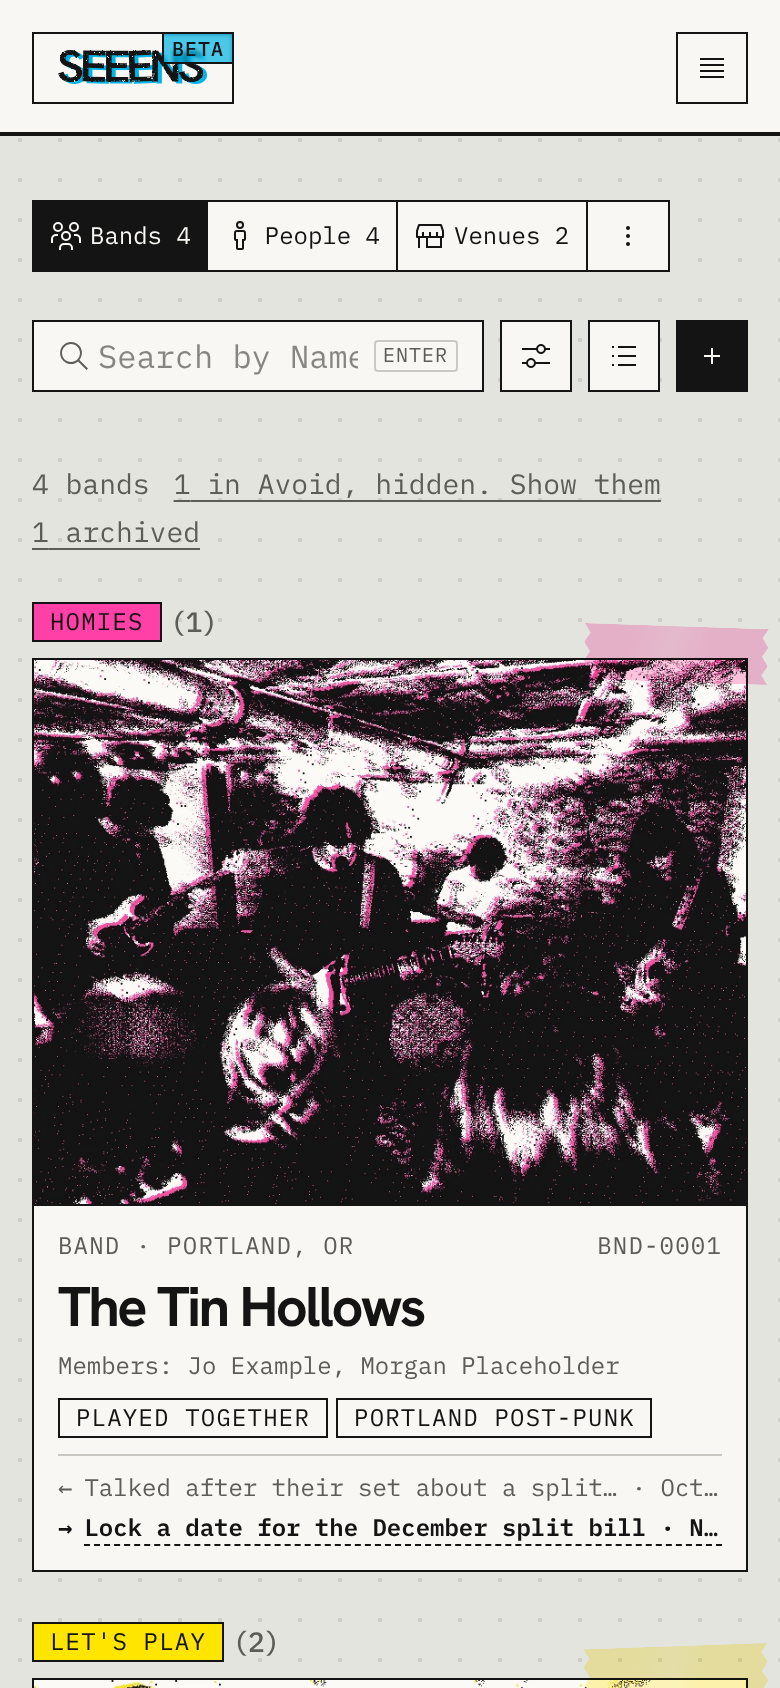
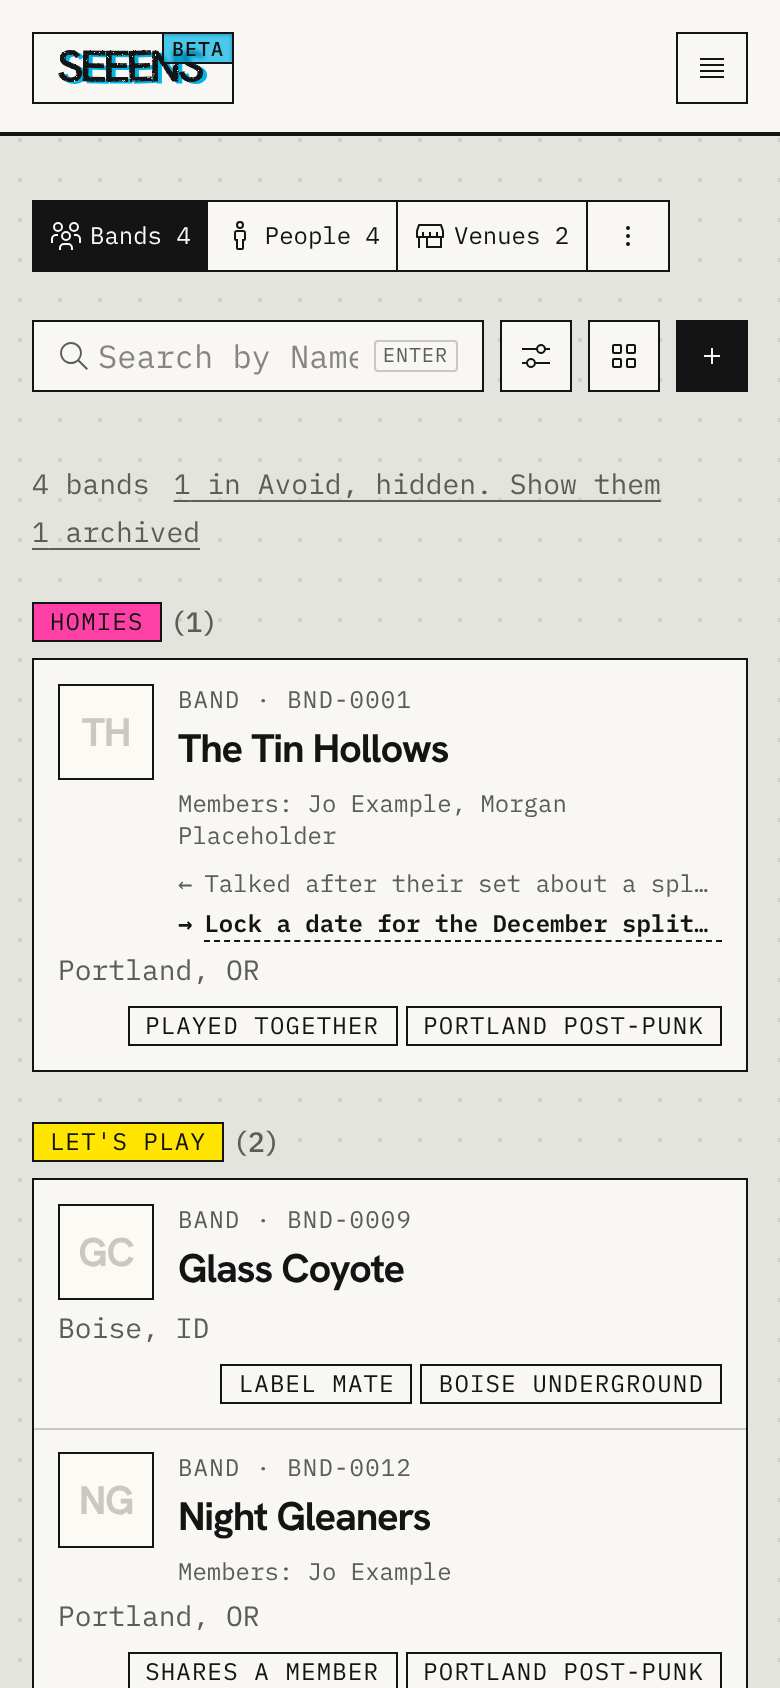
Directory opens as a list on phones (#270)
Cards are cramped on small screens. With no layout in the URL and none
remembered on the device, phones (by their mobile hint or user agent) get
the list; tablets and computers still get cards. The phone README
screenshots now use a phone user agent, so they show it.

Claude-Session: https://claude.ai/code/session_01SMP6NnyPkRALtU7G1T7uNS

diff --git a/src/app/(app)/(directory)/directory-view.tsx b/src/app/(app)/(directory)/directory-view.tsx
@@ -20,7 +20,7 @@ import {
 } from "@carbon/icons-react";
 import { Suspense } from "react";
 import { redirect } from "next/navigation";
-import { cookies } from "next/headers";
+import { cookies, headers } from "next/headers";
 import { DirectoryResults } from "@/components/directory-results";
 import { LayoutProvider, LayoutToggle } from "@/components/layout-toggle";
 import { PinWatch } from "@/components/pin-watch";
@@ -67,10 +67,13 @@ async function Directory({ searchParams, scope }: { searchParams: Promise<Params
   if (!membership) return <NoWorkspace />;
   const today = todayISO(new Date(), membership.timeZone);
 
-  const [params, cookieStore] = await Promise.all([searchParams, cookies()]);
-  // Cards or list: the URL wins (shared links), then this device's last choice.
+  const [params, cookieStore, headerList] = await Promise.all([searchParams, cookies(), headers()]);
+  // Cards or list: the URL wins (shared links), then this device's last
+  // choice, then list on phones (cards are cramped there) and cards elsewhere.
   const layout: DirectoryLayout =
-    readLayout(params.layout) ?? readLayout(cookieStore.get(LAYOUT_COOKIE)?.value) ?? "cards";
+    readLayout(params.layout) ??
+    readLayout(cookieStore.get(LAYOUT_COOKIE)?.value) ??
+    (isPhone(headerList) ? "list" : "cards");
   const base = scope === "all" ? "/directory" : "/";
   const layoutHrefs = {
     list: withLayout(base, params, "list"),
@@ -402,6 +405,13 @@ function readAfter(value: string | string[] | undefined) {
 }
 
 // The same directory URL with a different layout.
+// The browser says so (Chromium), or its user agent does (Safari, Firefox).
+// Tablets get cards: there's room.
+function isPhone(h: Headers) {
+  if (h.get("sec-ch-ua-mobile") === "?1") return true;
+  return /\b(iPhone|iPod)\b|Android.+Mobile|Mobile.+Firefox|\bMobi\b/.test(h.get("user-agent") ?? "");
+}
+
 function withLayout(base: string, params: Params, layout: DirectoryLayout) {
   const p = new URLSearchParams(resultsQuery(params, "network"));
   p.set("layout", layout);

diff --git a/src/components/layout-toggle.tsx b/src/components/layout-toggle.tsx
@@ -5,7 +5,7 @@ import Link from "next/link";
 import { createContext, useContext, useState, type ReactNode } from "react";
 import { LAYOUT_COOKIE, type DirectoryLayout } from "@/lib/connections/card";
 
-// Cards / List for the directory (Cards by default). Switching happens in the browser: the
+// Cards / List for the directory (list on phones, cards elsewhere, by default). Switching happens in the browser: the
 // results render from the same loaded data either way, so there's no trip
 // to the server. The choice still goes in the URL (shareable)
 // and a cookie (this device opens the same way next time).
